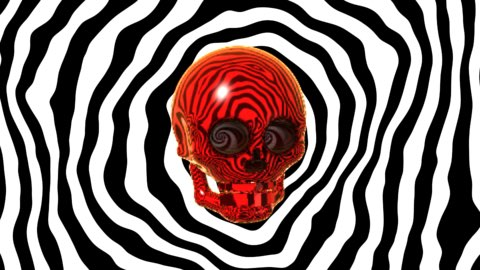
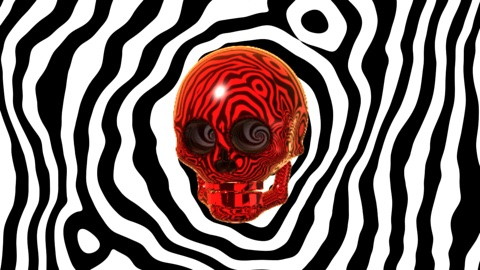
Skull Trip: manifest description, thumbnail, docs; harness README for level, bgm and --motion

diff --git a/plugins/builtin/src/lib/opart.js b/plugins/builtin/src/lib/opart.js
@@ -1,8 +1,14 @@
 // @ts-check
 /**
  * Skull Trip's op-art stripes, mirrored from shaders/skull/opart.glsl: the anti-aliased stripe,
- * the stripe drive (phase, frequency, flow, thickness) with its anti-strobe budget, the beat
- * ripples and the colours. Nothing allocates per step.
+ * the music's energy and phrase, the stripe drive (outward drift, breathing, flow, whirlpool
+ * twist), the local effects (thickness, beat ripples, spectrum bulge, waveform bend, loop
+ * emitters) and the colours.
+ *
+ * Photosensitivity: every one of them moves stripes, so they share one per-pixel phase-rate budget
+ * (RATE_BUDGET: no pixel alternates black/white faster than MAX_ALT_HZ with reduceFlashing). Each
+ * local effect is capped by its reserve and reports the rate it used (`rate`); the drive takes the
+ * rest each frame. Tests check every bound against the mirrored field. Nothing allocates per step.
  */
 import { createFlashLimiter } from "./flash.js";
 

diff --git a/plugins/_harness/README.md b/plugins/_harness/README.md
@@ -20,7 +20,10 @@ region: WebKit's `gl.finish()` returns without waiting, so use this to include G
 bright, busy backdrop behind the transparent canvas; default black like the shell), `nocanvas=1`,
 `still=N` (seeded `Math.random`, fixed 60 Hz steps, stop after N frames: deterministic stills),
 `gain=G` (scale the audio's level — waveform, rms, peak, spectrum, bands — e.g. `gain=0.05` for a
-quiet passage).
+quiet passage), `level=L` (like `gain`, but also bass/mid/treb and their Att, onsetStrength and flux;
+`level=0` is the host's silence: all zero, no onsets, `silent: true`), `bgm=R` (background-motion
+probe, with `still=N`: per-frame mean |Δ luminance| on a 320×180 copy outside a centre circle of
+radius R screen units, and per-pixel black/white alternation counts, in `__stats().bgm`).
 Contexts use the SDK's options (`alpha: true, premultipliedAlpha: true`, three clear alpha 0).
 
 `run.py` writes screenshots and `results-<browser>.json` to `out/` (git-ignored). For each
@@ -31,3 +34,9 @@ Headless Chromium falls back to software GL here; use WebKit numbers.
 `run.py --shots DIR [--tag after] [--prefix path/]` writes deterministic stills of each visualizer
 over black and over the light backdrop (plus the backdrop alone) to check transparency; `--prefix`
 points at another plugin tree under `/plugins/`, e.g. an older commit extracted with `git archive`.
+
+`run.py --motion [--mask R] VIZ…` measures background motion (deterministic, 1 s warm-up then 5 s)
+in silence (`level=0`), a quiet passage (`level=0.2`) and loud music (`audio=music`, reduceFlashing
+on and off): mean frame-to-frame change outside the centre circle, the beat response (mean change
+in the 150 ms after each strong onset over the 150 ms before it) and per-pixel alternation (black →
+white → black cycles in any 1 s window, Hz; p95/p99/max). Writes `out/motion-<tag>.json`.
